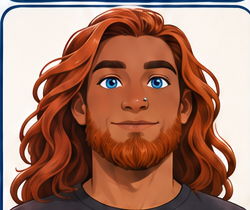
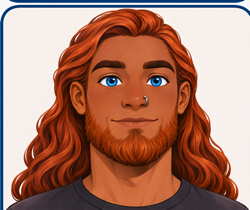
fix: clarifier les portraits et completer la recette reseau

diff --git a/data/portraits.html b/data/portraits.html
@@ -12,7 +12,7 @@
 <article><img src="../public/characters/c07.png" alt="Élise" width="220" height="280"/><h2>c07 — Élise</h2><p>Cheveux : brun ; longueur : court ; sans lunettes ; peau claire ; Femme ; avec boucles d’oreilles ; sans piercing ; vêtement : pull ; yeux marron ; Jeune ; pilosité : aucune.</p></article>
 <article><img src="../public/characters/c08.png" alt="Marie" width="220" height="280"/><h2>c08 — Marie</h2><p>Cheveux : blond ; longueur : long ; avec lunettes ; peau intermediaire ; Femme ; avec boucles d’oreilles ; sans piercing ; vêtement : veste ; yeux marron ; Jeune ; pilosité : aucune.</p></article>
 <article><img src="../public/characters/c09.png" alt="Robin" width="220" height="280"/><h2>c09 — Robin</h2><p>Cheveux : roux ; longueur : long ; sans lunettes ; peau foncee ; Homme ; sans boucles d’oreilles ; avec piercing au nez ; vêtement : tshirt ; yeux bleu ; Jeune ; pilosité : barbe.</p></article>
-<article><img src="../public/characters/c10.png" alt="Paul" width="220" height="280"/><h2>c10 — Paul</h2><p>Cheveux : blanc ; longueur : court ; avec lunettes ; peau claire ; Homme ; sans boucles d’oreilles ; avec piercing au nez ; vêtement : chemise ; yeux bleu ; Jeune ; pilosité : les_deux.</p></article>
+<article><img src="../public/characters/c10.png" alt="Paul" width="220" height="280"/><h2>c10 — Paul</h2><p>Cheveux : blanc ; longueur : court ; avec lunettes ; peau claire ; Homme ; sans boucles d’oreilles ; avec piercing au nez ; vêtement : chemise ; yeux bleu ; Vieux ; pilosité : les_deux.</p></article>
 <article><img src="../public/characters/c11.png" alt="Sarah" width="220" height="280"/><h2>c11 — Sarah</h2><p>Cheveux : noir ; longueur : court ; sans lunettes ; peau intermediaire ; Femme ; sans boucles d’oreilles ; avec piercing au nez ; vêtement : pull ; yeux vert ; Jeune ; pilosité : aucune.</p></article>
 <article><img src="../public/characters/c12.png" alt="Anne" width="220" height="280"/><h2>c12 — Anne</h2><p>Cheveux : brun ; longueur : long ; avec lunettes ; peau foncee ; Femme ; sans boucles d’oreilles ; avec piercing au nez ; vêtement : veste ; yeux vert ; Jeune ; pilosité : aucune.</p></article>
 <article><img src="../public/characters/c13.png" alt="Maxime" width="220" height="280"/><h2>c13 — Maxime</h2><p>Cheveux : blond ; longueur : court ; sans lunettes ; peau claire ; Homme ; avec boucles d’oreilles ; avec piercing au nez ; vêtement : tshirt ; yeux marron ; Jeune ; pilosité : aucune.</p></article>

diff --git a/tests/e2e/fin.test.ts b/tests/e2e/fin.test.ts
@@ -1,0 +1,50 @@
+import assert from 'node:assert/strict';
+import test from 'node:test';
+import type { Command } from '../../src/contracts/game.ts';
+import { startServer } from '../../src/server/server.ts';
+import { assertError, connect, createRoom, expectMessage, ready, registerCleanup, sendMessage, session, type TestClient } from '../server/helpers.ts';
+
+test('C4 : proposition déjà éliminée au dernier tour et action après la fin', async t => {
+  const server = await startServer(0);
+  const clients: TestClient[] = [];
+  registerCleanup(t, server, clients);
+  const client = await connect(server.port, clients);
+  await createRoom(client, 'solo', 'lose_turn');
+  const original = Math.random;
+  const draws = [0, 5 / 11];
+  Math.random = () => draws.shift() ?? 0;
+  try {
+    const game = session(await ready(client)).game;
+    assert.ok(game);
+    assert.equal(game.forbiddenAttribute, 'piercing');
+  } finally {
+    Math.random = original;
+  }
+
+  const actions: Command[] = [
+    { type: 'guess', characterId: 'c02' },
+    { type: 'question', attribute: 'glasses', value: false },
+    { type: 'question', attribute: 'skinTone', value: 'claire' },
+    { type: 'question', attribute: 'gender', value: 'homme' },
+    { type: 'question', attribute: 'earrings', value: false },
+    { type: 'guess', characterId: 'c02' },
+  ];
+  for (const [index, command] of actions.entries()) {
+    const snapshot = expectMessage(client, 'snapshot');
+    sendMessage(client, { protocolVersion: 2, type: 'action', command });
+    const game = session(await snapshot).game;
+    assert.ok(game);
+    assert.equal(game.selfPlayer.remainingTurns, 5 - index);
+    assert.equal(game.selfPlayer.history.length, index + 1);
+    assert.ok(!game.selfPlayer.candidateIds.includes('c02'));
+    assert.equal(game.status, index === 5 ? 'finished' : 'playing');
+    if (index === 5) {
+      assert.equal(game.winnerId, null);
+      assert.equal(game.activePlayerId, null);
+      assert.equal(game.selfPlayer.history.at(-1)?.type, 'guess');
+    }
+  }
+  const rejected = expectMessage(client, 'error');
+  sendMessage(client, { protocolVersion: 2, type: 'action', command: { type: 'guess', characterId: 'c01' } });
+  assertError(await rejected, 'GAME_FINISHED');
+});

diff --git a/tests/e2e/recette.test.ts b/tests/e2e/recette.test.ts
@@ -51,7 +51,7 @@ test('C4 : règles, rejets sans consommation et victoire à la sixième action p
   assert.deepEqual(first.selfPlayer.history[0], { type: 'question', attribute: 'glasses', value: false, answer: true });
   assert.deepEqual(first.selfPlayer.candidateIds, Array.from({ length: 12 }, (_, index) => `c${String(index * 2 + 1).padStart(2, '0')}`));
   const rejected = expectMessage(client, 'error');
-  sendMessage(client, { protocolVersion: 2, type: 'action', command: questions[0] });
+  sendMessage(client, { protocolVersion: 2, type: 'action', command: { type: 'question', attribute: 'glasses', value: true } });
   assertError(await rejected, 'ATTRIBUTE_ALREADY_USED');
   const forbidden = expectMessage(client, 'error');
   sendMessage(client, { protocolVersion: 2, type: 'action', command: { type: 'question', attribute: 'piercing', value: false } });

diff --git a/data/README.md b/data/README.md
@@ -15,11 +15,11 @@ Le contrôle lit le catalogue réel, vérifie les domaines du contrat v2, les 11
 
 Les 24 portraits PNG sont livrés sous public/characters/, aux chemins /characters/c01.png à /characters/c24.png. Le validateur vérifie leur présence et refuse les fichiers vides. La planche data/portraits.html permet de les revoir avec les descriptions des 11 attributs : l'ouvrir directement dans un navigateur. Ce n'est pas une interface du jeu.
 
-La révision conserve les 24 IDs et adapte les attributs aux portraits de la nouvelle planche. Les boucles d'Anne et de Madeleine restent indiquées absentes : leurs oreilles sont masquées ou les détails sont ambigus. Les piercings et les couleurs des yeux sont difficiles à distinguer à la taille des cartes ; consulter les attributs textuels pour lever le doute. La conformité des attributs visuels nécessite une revue humaine ; les contrôles automatiques ne peuvent pas la garantir.
+La révision conserve les 24 IDs. Les portraits c02, c03, c09, c10, c12, c14, c16, c17, c19, c20 et c21 ont été repris pour rendre les oreilles et piercings plus visibles. Paul (c10) est désormais classé « vieux » conformément à son portrait ; l'analyse d'équilibrage et la planche ont été régénérées. Les descriptions textuelles complètent les portraits. La conformité visuelle nécessite une revue humaine ; les contrôles automatiques ne peuvent pas la garantir.
 
 ## Provenance et droits
 
-Illustrations fictives créées pour le projet avec l'outil de génération d'images intégré, puis découpées individuellement à partir de la planche générée. Aucune photo ni personne réelle n'a servi de modèle. Aucune licence générale du dépôt n'est ajoutée par ce lot.
+Illustrations fictives créées pour le projet avec l'outil de génération d'images intégré, puis découpées individuellement à partir de la planche générée. Onze portraits ont ensuite été retouchés avec le même outil. Aucune photo ni personne réelle n'a servi de modèle. Aucune licence générale du dépôt n'est ajoutée par ce lot.
 
 Le générateur reconstruit uniquement la planche HTML à partir des chemins et attributs existants ; il ne modifie ni le catalogue ni les PNG. La planche et l'interface fournissent des descriptions textuelles des attributs pour l'accessibilité.
 

diff --git a/data/equilibrage.md b/data/equilibrage.md
@@ -14,7 +14,7 @@ Rapport généré depuis data/characters.json par node scripts/catalog/report-ba
 | piercing | false : 14 ; true : 10 |
 | clothing | tshirt : 6 ; chemise : 6 ; pull : 6 ; veste : 6 |
 | eyeColor | marron : 8 ; bleu : 8 ; vert : 8 |
-| ageGroup | jeune : 16 ; vieux : 8 |
+| ageGroup | jeune : 15 ; vieux : 9 |
 | hairLength | aucun : 0 ; court : 12 ; long : 12 |
 | facialHair | aucune : 16 ; moustache : 4 ; barbe : 1 ; les_deux : 3 |
 
